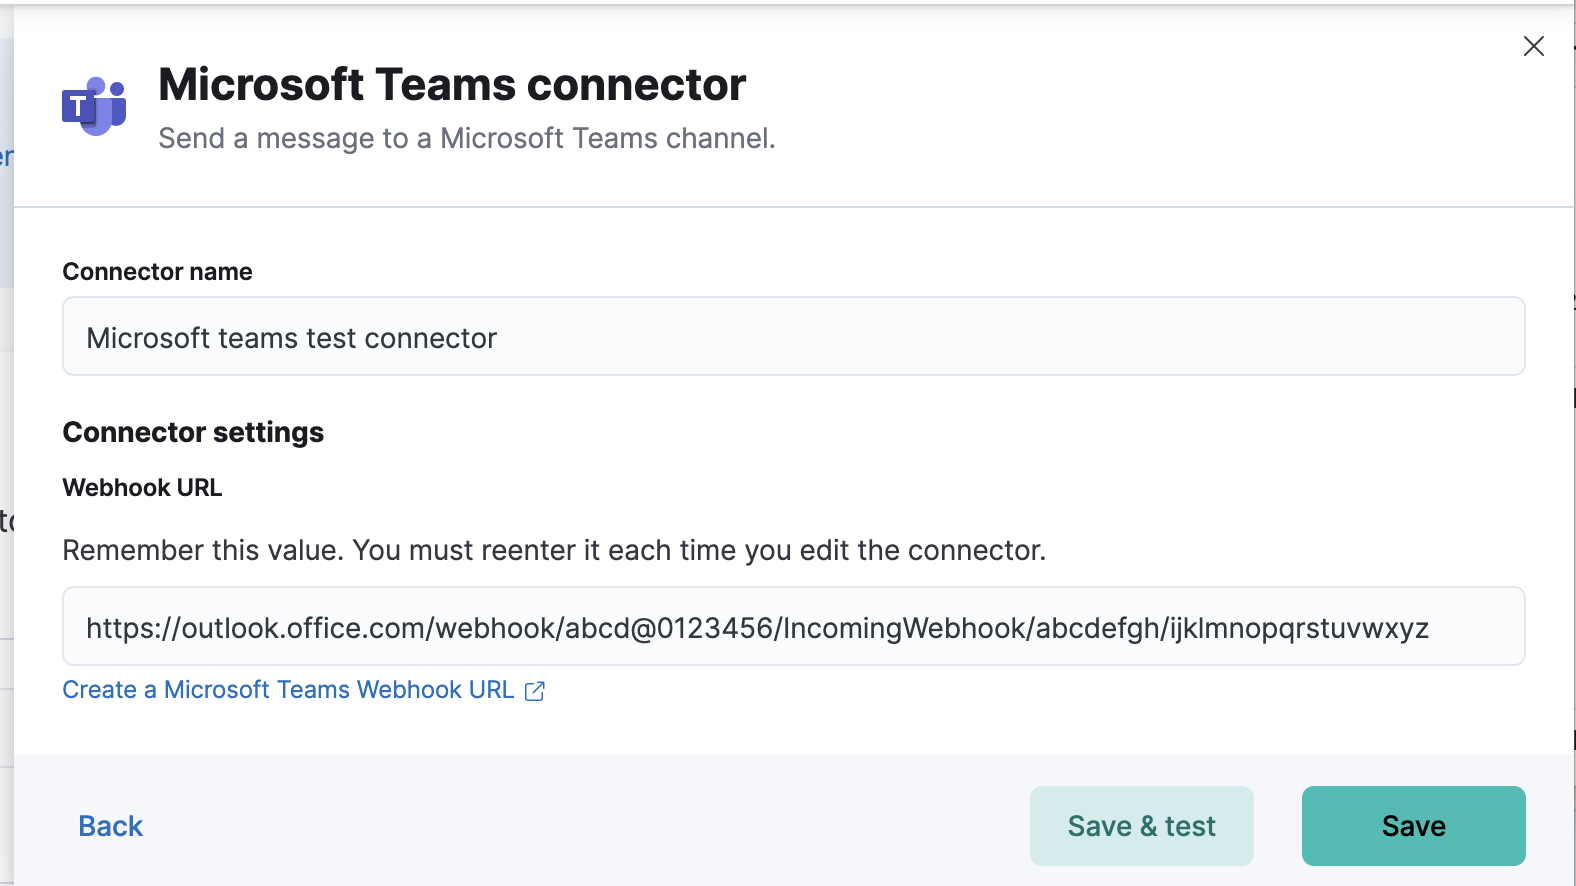
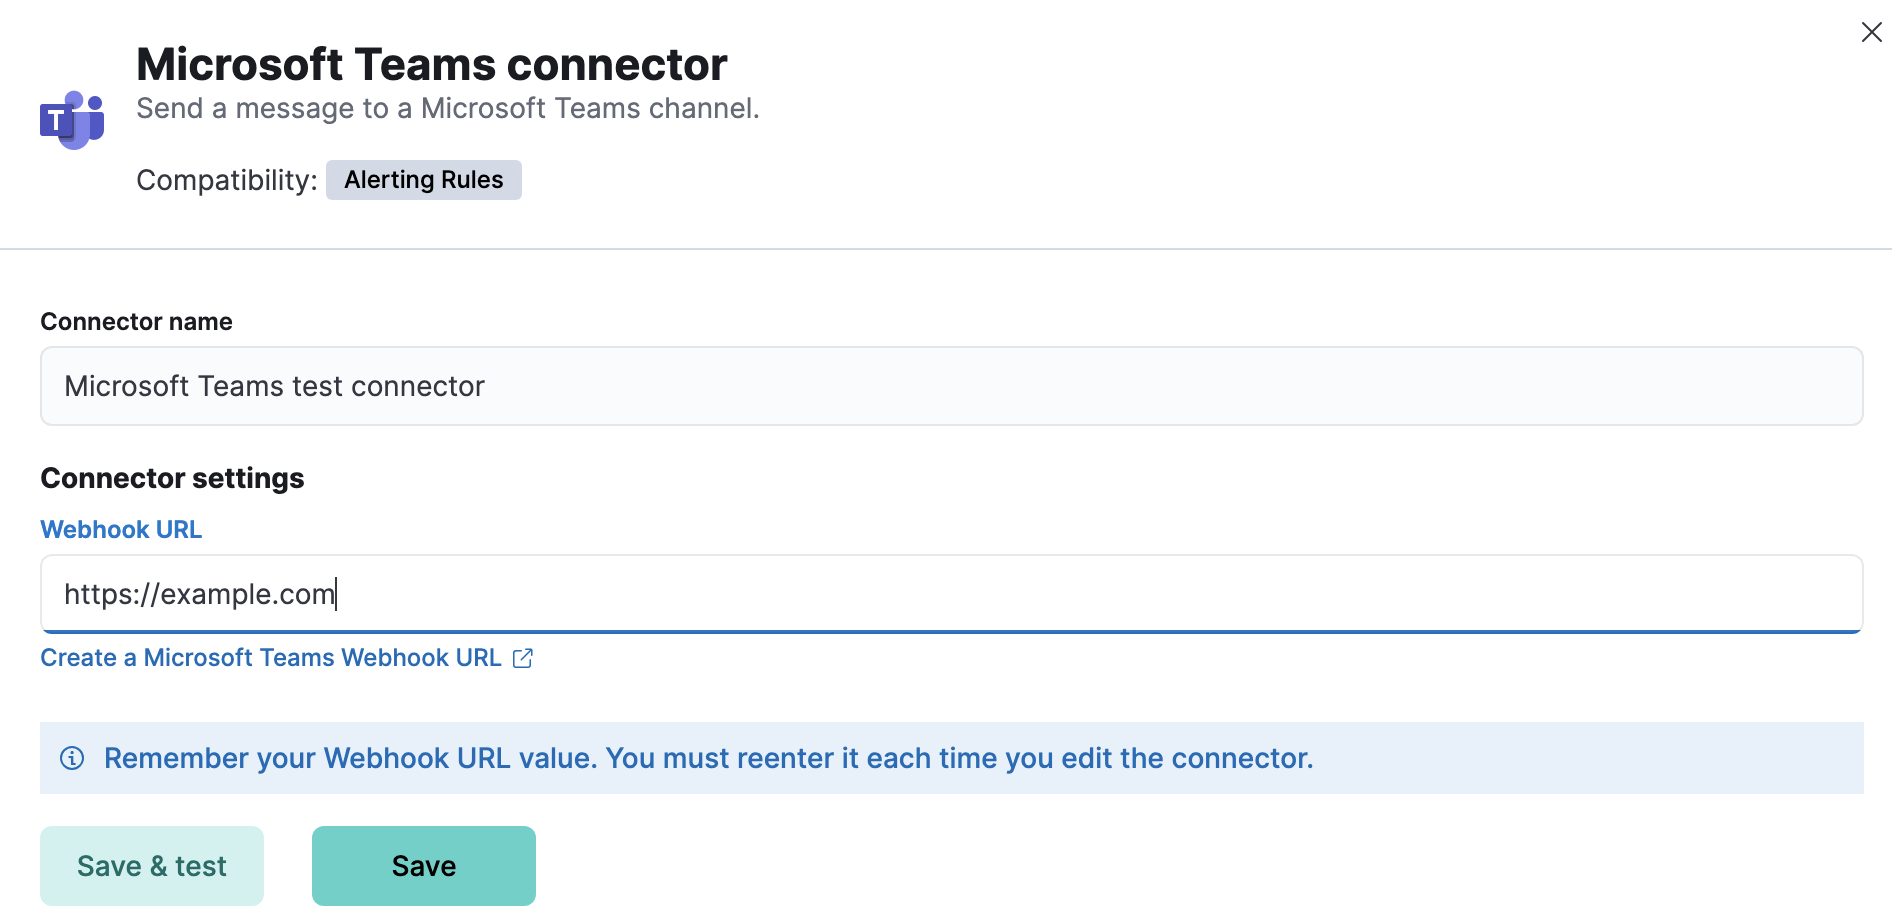
[DOCS] Update Microsoft Teams connector (#190568)

Changed region(s): [[0.0, 0.0, 1.0, 1.0]]

diff --git a/x-pack/test/screenshot_creation/apps/response_ops_docs/stack_connectors/microsoft_teams_connector.ts b/x-pack/test/screenshot_creation/apps/response_ops_docs/stack_connectors/microsoft_teams_connector.ts
@@ -1,0 +1,34 @@
+/*
+ * Copyright Elasticsearch B.V. and/or licensed to Elasticsearch B.V. under one
+ * or more contributor license agreements. Licensed under the Elastic License
+ * 2.0; you may not use this file except in compliance with the Elastic License
+ * 2.0.
+ */
+
+import { FtrProviderContext } from '../../../ftr_provider_context';
+
+export default function ({ getService, getPageObjects }: FtrProviderContext) {
+  const commonScreenshots = getService('commonScreenshots');
+  const screenshotDirectories = ['response_ops_docs', 'stack_connectors'];
+  const pageObjects = getPageObjects(['common', 'header']);
+  const actions = getService('actions');
+  const testSubjects = getService('testSubjects');
+  describe('teams connector', function () {
+    beforeEach(async () => {
+      await pageObjects.common.navigateToApp('connectors');
+      await pageObjects.header.waitUntilLoadingHasFinished();
+    });
+
+    it('index connector screenshots', async () => {
+      await pageObjects.common.navigateToApp('connectors');
+      await pageObjects.header.waitUntilLoadingHasFinished();
+      await actions.common.openNewConnectorForm('teams');
+      await testSubjects.setValue('nameInput', 'Microsoft Teams test connector');
+      await testSubjects.setValue('teamsWebhookUrlInput', 'https://example.com');
+      await commonScreenshots.takeScreenshot('teams-connector', screenshotDirectories);
+      await testSubjects.click('create-connector-flyout-save-test-btn');
+      await commonScreenshots.takeScreenshot('teams-params-test', screenshotDirectories);
+      await testSubjects.click('euiFlyoutCloseButton');
+    });
+  });
+}

diff --git a/x-pack/test/screenshot_creation/apps/response_ops_docs/stack_connectors/index.ts b/x-pack/test/screenshot_creation/apps/response_ops_docs/stack_connectors/index.ts
@@ -62,6 +62,7 @@ export default function ({ loadTestFile, getService }: FtrProviderContext) {
     loadTestFile(require.resolve('./ibm_resilient_connector'));
     loadTestFile(require.resolve('./index_connector'));
     loadTestFile(require.resolve('./jira_connector'));
+    loadTestFile(require.resolve('./microsoft_teams_connector'));
     loadTestFile(require.resolve('./opsgenie_connector'));
     loadTestFile(require.resolve('./pagerduty_connector'));
     loadTestFile(require.resolve('./sentinelone_connector'));
